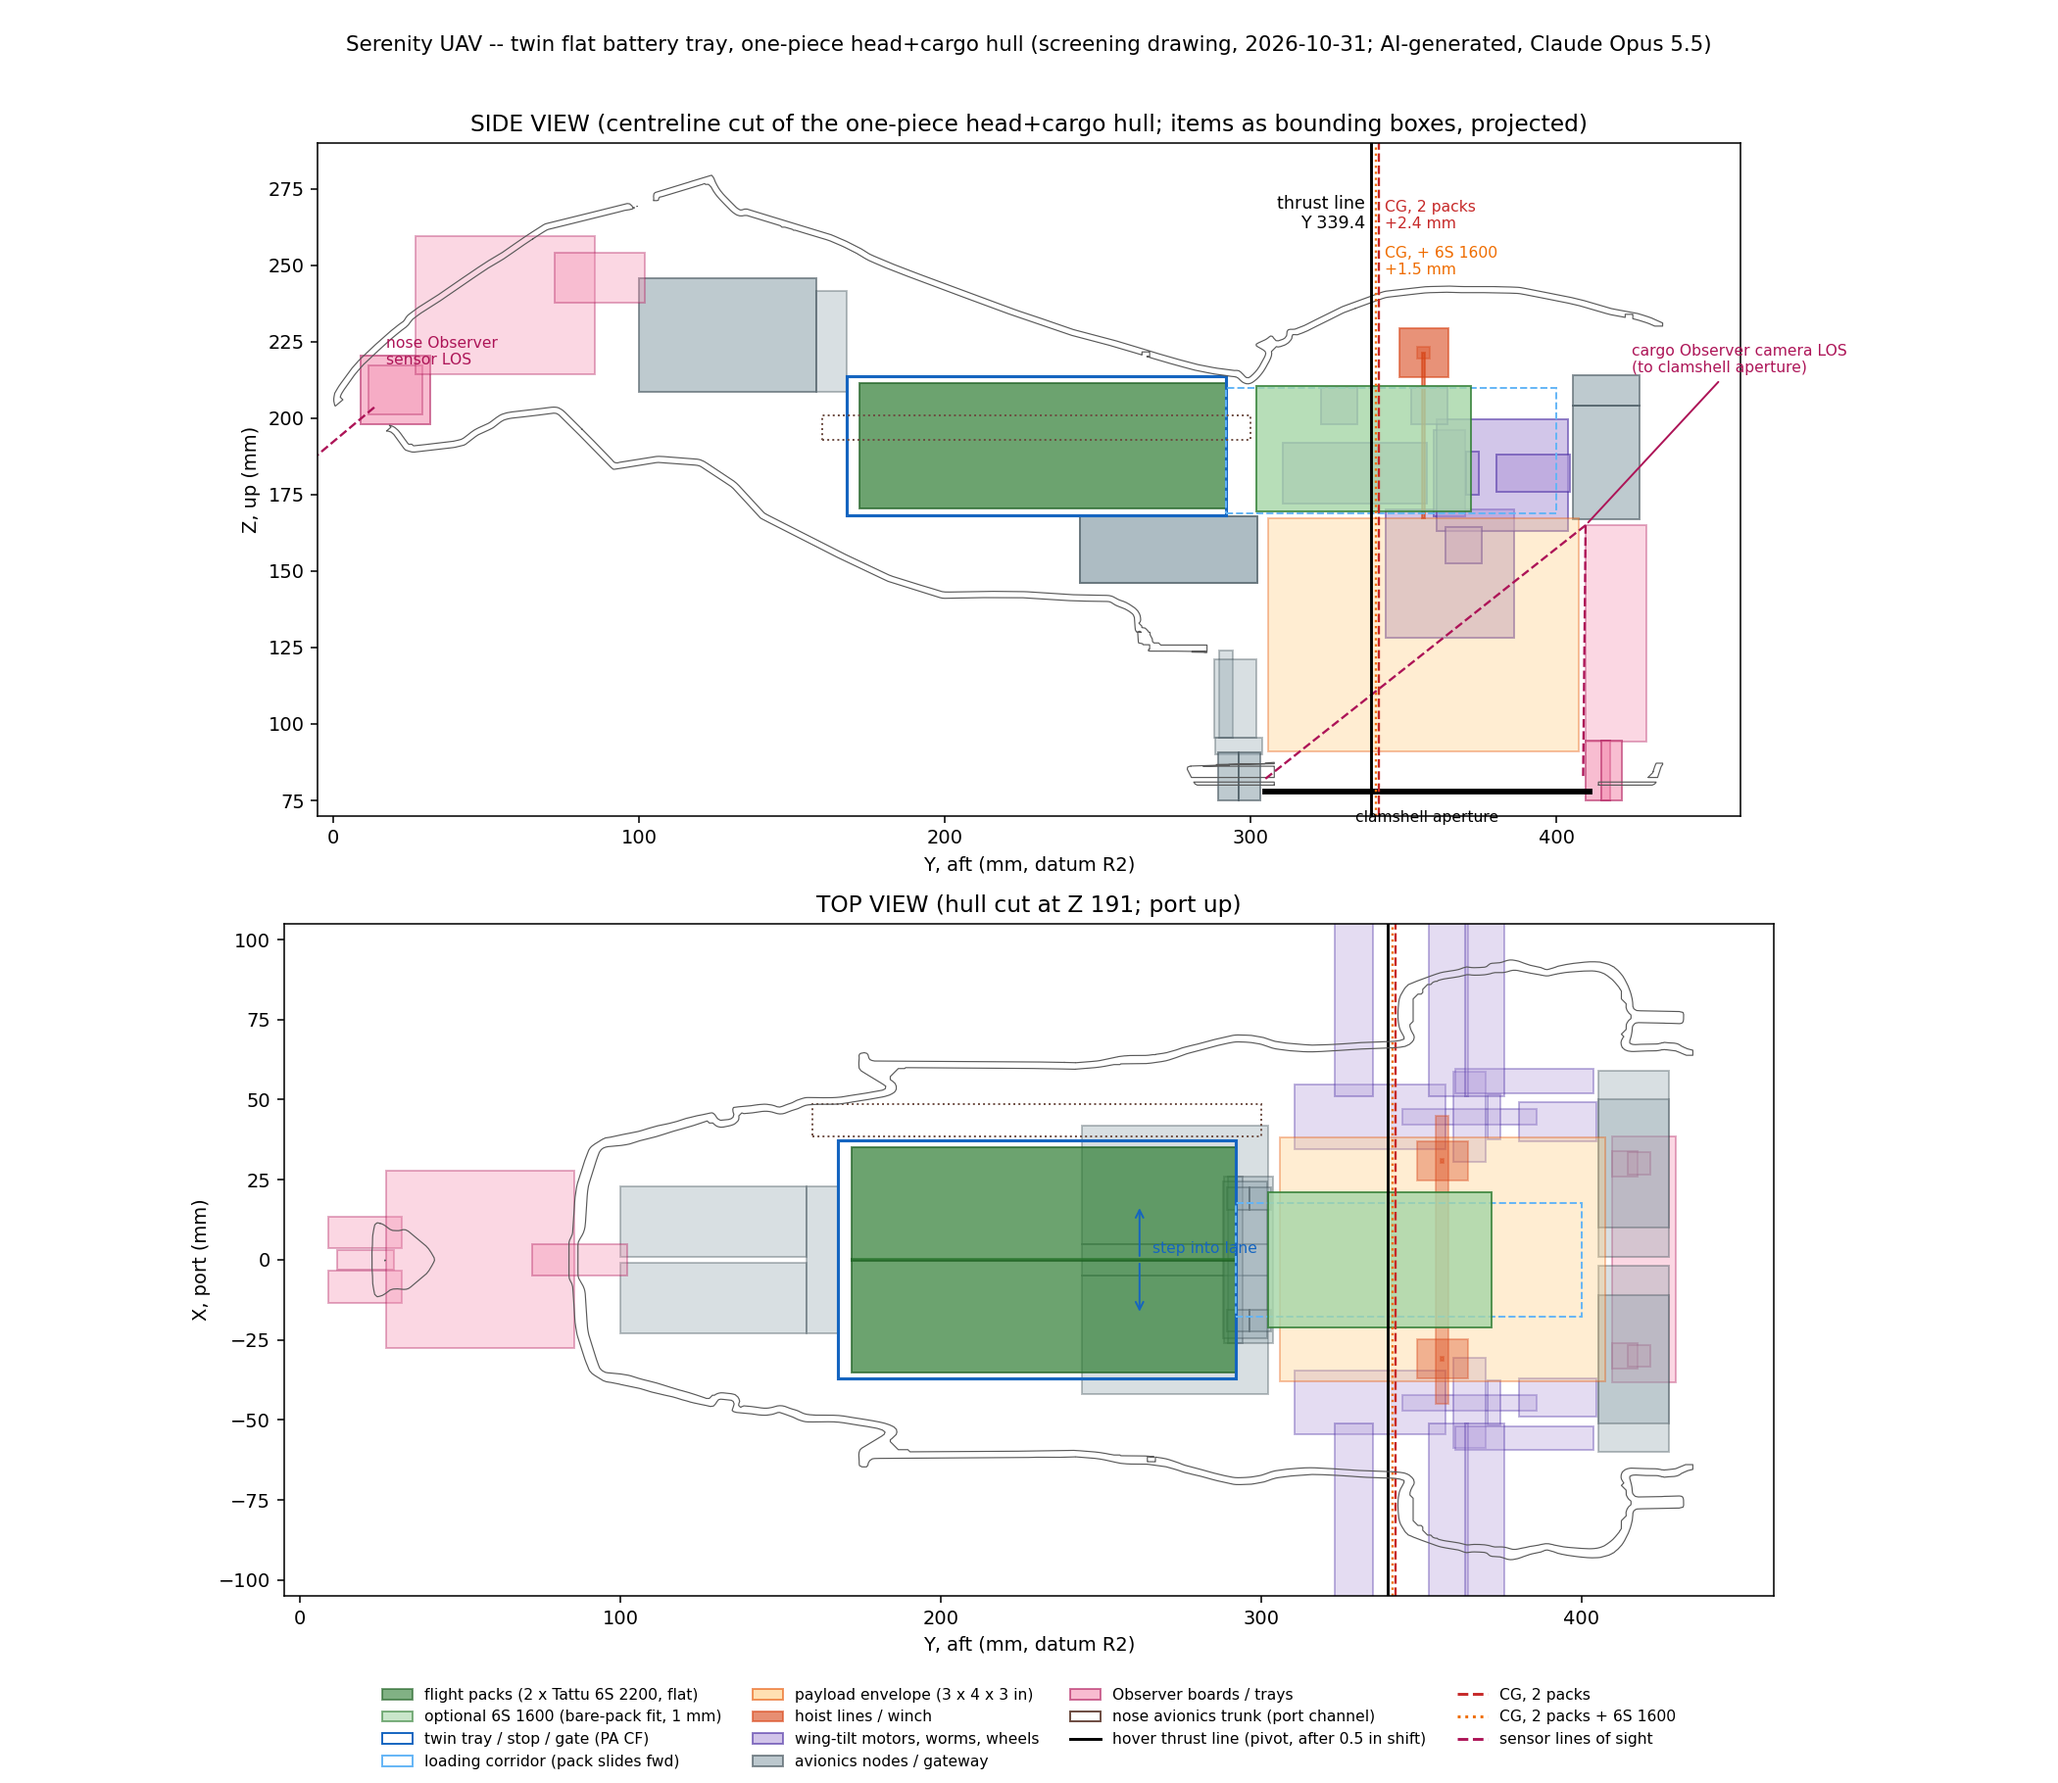
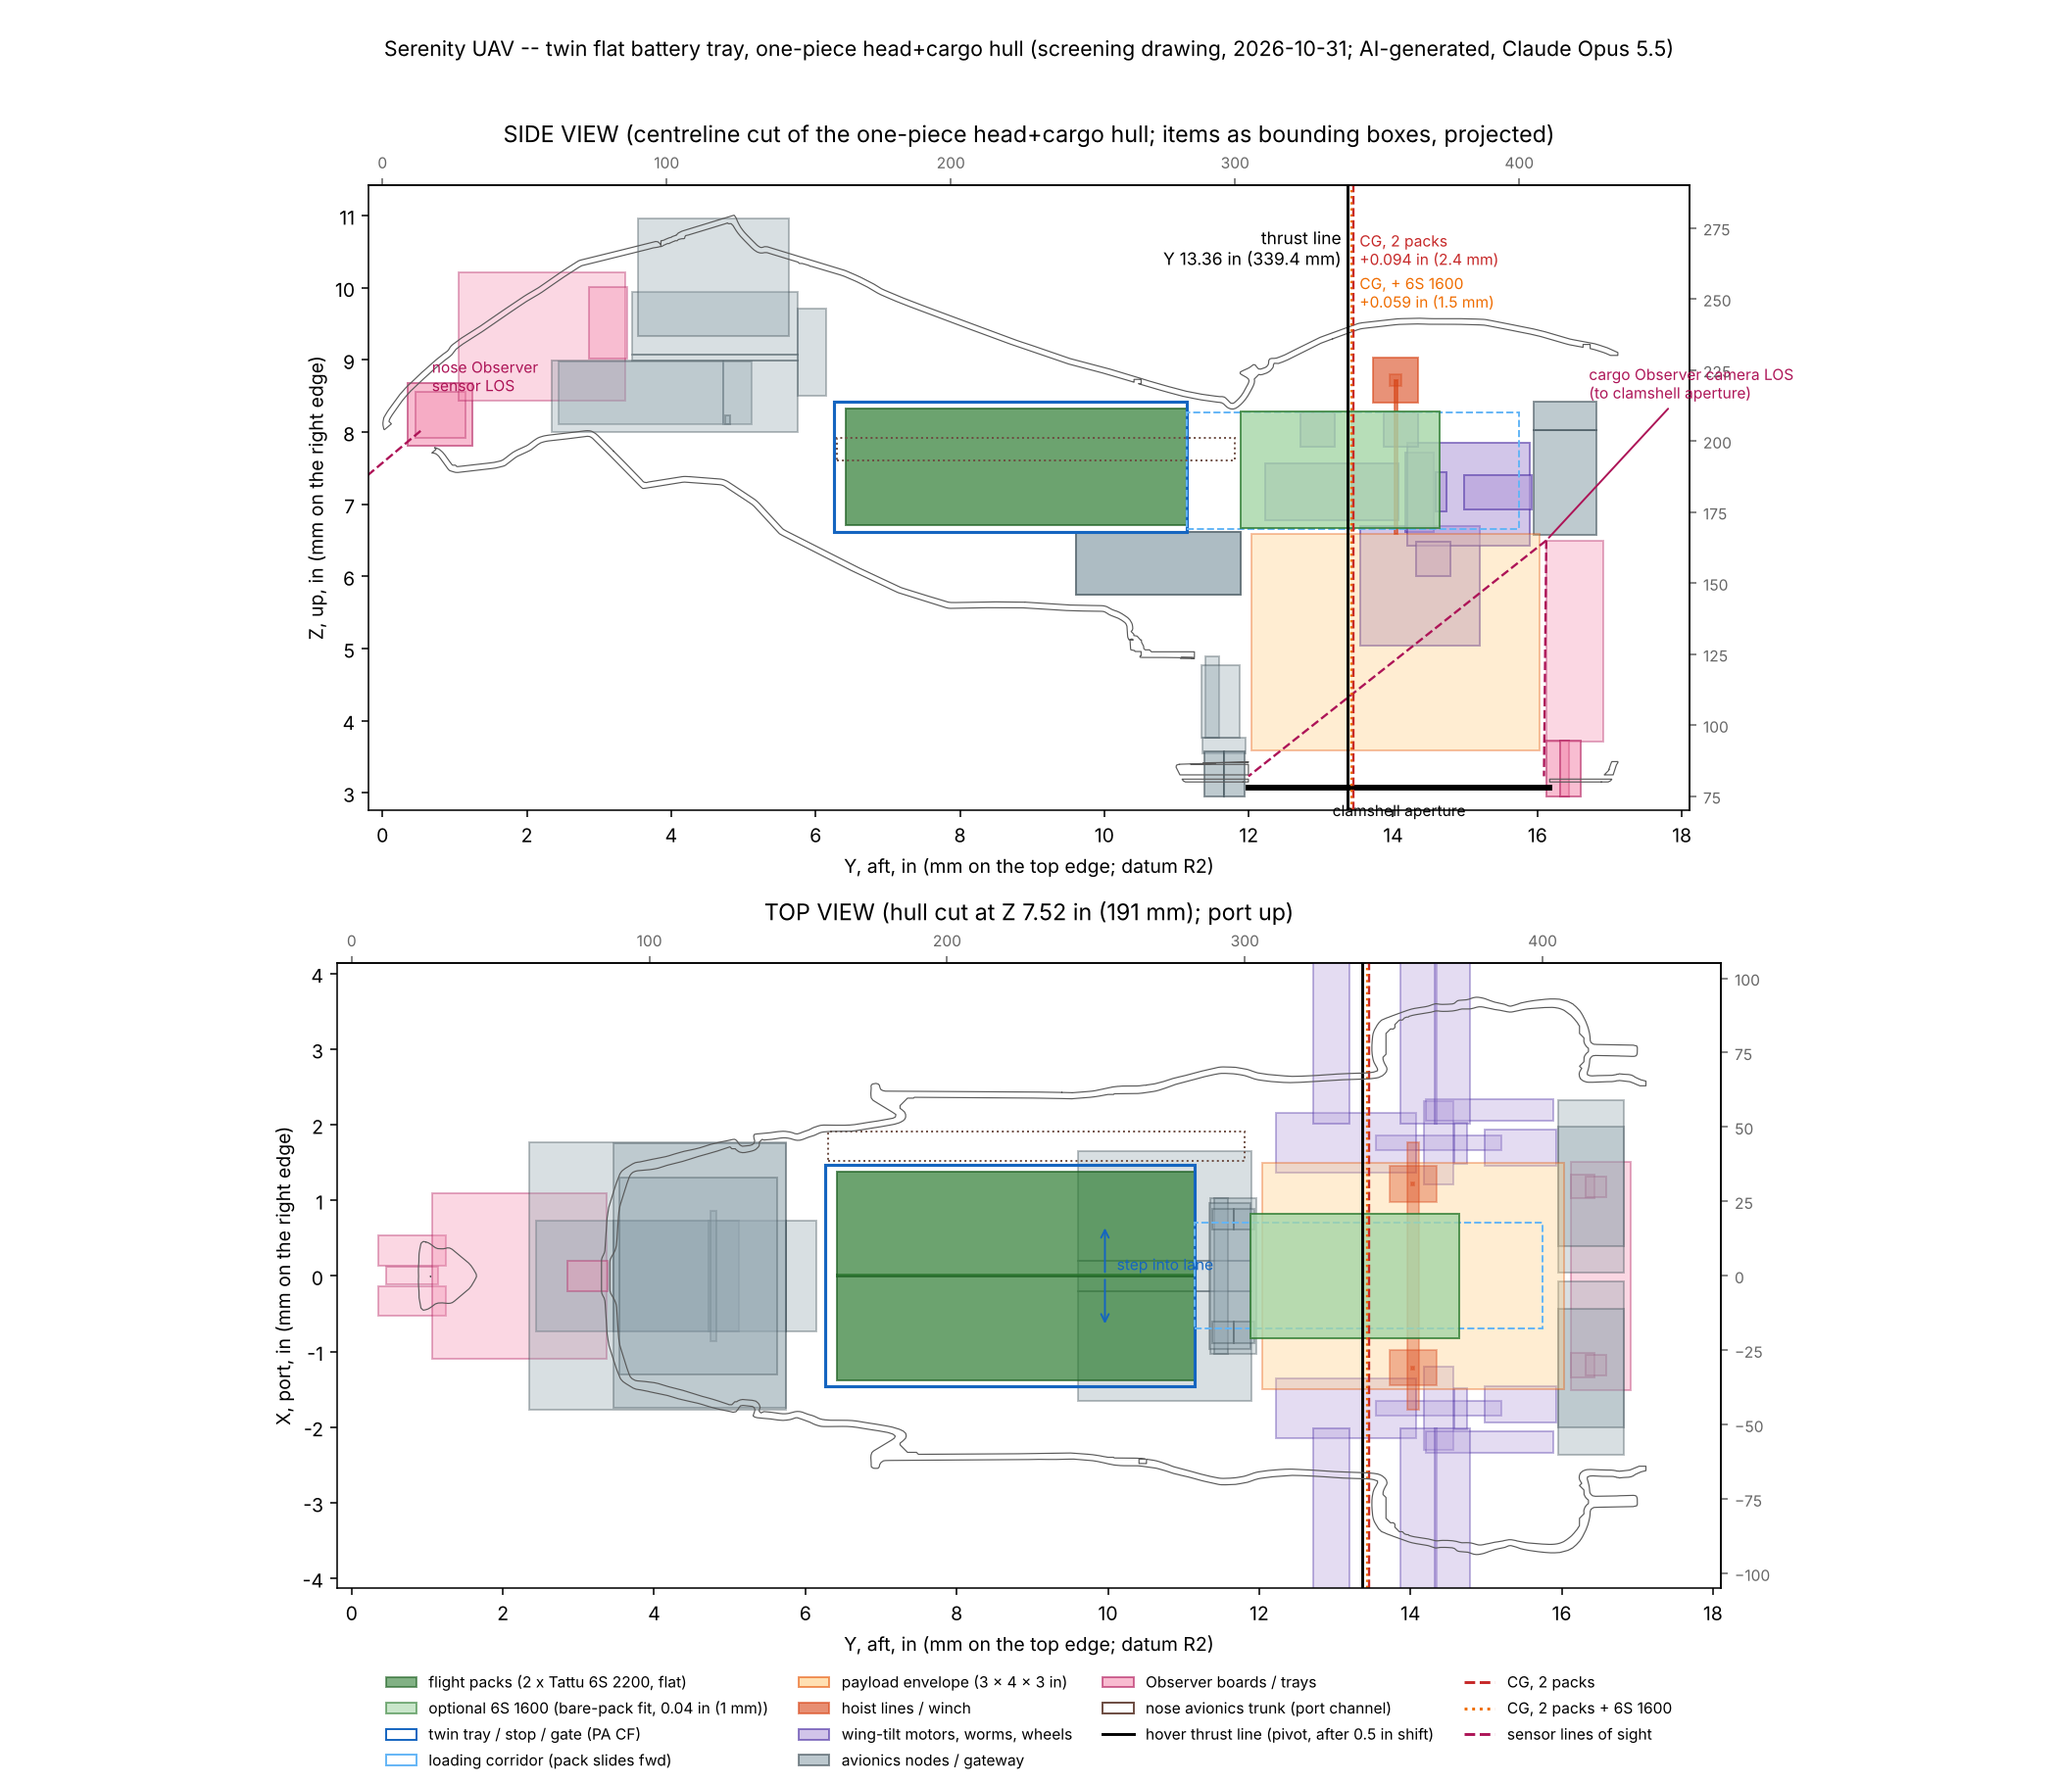
docs(figures): inches and psf first on the remaining metric drawings
Audit of docs/figures against AGENTS.md section 5 (imperial first):
- battery_bay_twin_tray.png: axes and CG labels were mm. plot_battery_bay.py
  now labels inches on the bottom/left with the mm scale on the top/right
  (geometry still read in mm from the fit tools); regenerated.
- nacelle64_bay_stud_after/_interaction.png: insert sizes in the subtitle
  were mm only. No generator exists for these 2026-11-08 figures, so the
  subtitle line was re-lettered in place (Inter, same size) as
  0.138/0.157/0.236 in with mm in parentheses; nothing else changed.
- nacelle64_od17_cfd_wall_shear and _tail_cfd_wall_shear.png: colour bar
  was Pa only. The CFD case data is not in this container, so the bar
  title and tick labels were re-lettered in place as psf (Pa)
  (1 Pa = 0.020885 psf). post.py now plots psf so the OD17-FAIR-CFD re-run
  renders imperial first.
All other figures were already inches first.

Claude-Session: https://claude.ai/code/session_0174Nei9LB7tYuXyTSNqF7z2

diff --git a/tools/plot_battery_bay.py b/tools/plot_battery_bay.py
@@ -32,6 +32,7 @@ import matplotlib.pyplot as plt  # noqa: E402
 import numpy as np  # noqa: E402
 import trimesh  # noqa: E402
 from matplotlib.patches import Rectangle  # noqa: E402
+from matplotlib.ticker import FuncFormatter, MultipleLocator  # noqa: E402
 
 HERE = os.path.dirname(os.path.abspath(__file__))
 sys.path.insert(0, HERE)
@@ -41,13 +42,14 @@ import twin_head_pack_fit as t  # noqa: E402
 c, h, clf = t.c, t.h, t.clf
 OUT = os.path.join(c.REPO, "docs", "figures", "battery_bay_twin_tray.png")
 
-# CG offsets from twin_head_pack_fit (after the 0.5 in pivot shift)
+MM_IN = 25.4
+# CG offsets from twin_head_pack_fit (after the 0.5 in pivot shift), mm
 CG_F, CG_A = 2.4, 1.5
 THIRD = dict(y0=302.0, y1=372.0, zc=190.0, w=42.0, h=41.0)  # bare-pack fit band
 
 STYLE = {  # category: (face colour, edge colour, label)
     "pack": ("#2e7d32", "#1b5e20", "flight packs (2 x Tattu 6S 2200, flat)"),
-    "third": ("#a5d6a7", "#2e7d32", "optional 6S 1600 (bare-pack fit, 1 mm)"),
+    "third": ("#a5d6a7", "#2e7d32", "optional 6S 1600 (bare-pack fit, 0.04 in (1 mm))"),
     "tray": ("none", "#1565c0", "twin tray / stop / gate (PA CF)"),
     "corr": ("none", "#64b5f6", "loading corridor (pack slides fwd)"),
     "payload": ("#ffcc80", "#e65100", "payload envelope (3 x 4 x 3 in)"),
@@ -104,6 +106,18 @@ def rect(ax, x0, x1, y0, y1, key, alpha=0.55, lw=1.0, ls="-"):
                            alpha=alpha if fc != "none" else 1.0, lw=lw, ls=ls))
 
 
+def inch_axes(ax, x_step_in, y_step_in):
+    """Geometry stays in mm (as read from the fit tools); the bottom/left scales read inches
+    (AGENTS.md section 5, imperial first) and the top/right edges carry the mm scale."""
+    inch = FuncFormatter(lambda v, _: f"{v / MM_IN:g}")
+    ax.xaxis.set_major_locator(MultipleLocator(x_step_in * MM_IN))
+    ax.yaxis.set_major_locator(MultipleLocator(y_step_in * MM_IN))
+    ax.xaxis.set_major_formatter(inch)
+    ax.yaxis.set_major_formatter(inch)
+    ax.secondary_xaxis("top").tick_params(labelsize=8, colors="0.4")
+    ax.secondary_yaxis("right").tick_params(labelsize=8, colors="0.4")
+
+
 def outline(ax, mesh, origin, normal, ix, iy):
     sec = mesh.section(plane_origin=origin, plane_normal=normal)
     if sec is None:
@@ -155,16 +169,20 @@ def main():
         ax.axvline(tl, color="k", lw=1.5)
         ax.axvline(tl + CG_F, color="#c62828", lw=1.2, ls="--")
         ax.axvline(tl + CG_A, color="#ef6c00", lw=1.2, ls=":")
-    ax1.text(tl - 2, 262, f"thrust line\nY {tl:.1f}", ha="right", fontsize=9)
-    ax1.text(tl + CG_F + 2, 262, f"CG, 2 packs\n+{CG_F} mm", color="#c62828", fontsize=8)
-    ax1.text(tl + CG_F + 2, 247, f"CG, + 6S 1600\n+{CG_A} mm", color="#ef6c00", fontsize=8)
+    ax1.text(tl - 2, 262, f"thrust line\nY {tl / MM_IN:.2f} in ({tl:.1f} mm)", ha="right",
+             fontsize=9)
+    ax1.text(tl + CG_F + 2, 262, f"CG, 2 packs\n+{CG_F / MM_IN:.3f} in ({CG_F} mm)",
+             color="#c62828", fontsize=8)
+    ax1.text(tl + CG_F + 2, 247, f"CG, + 6S 1600\n+{CG_A / MM_IN:.3f} in ({CG_A} mm)",
+             color="#ef6c00", fontsize=8)
     ax1.set_title("SIDE VIEW (centreline cut of the one-piece head+cargo hull; items "
                   "as bounding boxes, projected)")
-    ax1.set_xlabel("Y, aft (mm, datum R2)")
-    ax1.set_ylabel("Z, up (mm)")
+    ax1.set_xlabel("Y, aft, in (mm on the top edge; datum R2)")
+    ax1.set_ylabel("Z, up, in (mm on the right edge)")
     ax1.set_xlim(-5, 460)
     ax1.set_ylim(70, 290)
     ax1.set_aspect("equal")
+    inch_axes(ax1, 2, 1)
     # ---------------- top view (Y aft, X port up), cut at the tray centre Z ---
     outline(ax2, hull, [0, 0, t.TRAY_ZC], [0, 0, 1], 1, 0)
     for name, k, b in its:
@@ -181,12 +199,14 @@ def main():
     ax2.annotate("", xy=(t.TRAY_Y1 - 30, -t.LANE_X), xytext=(t.TRAY_Y1 - 30, 0),
                  arrowprops=dict(arrowstyle="->", color="#1565c0"))
     ax2.text(t.TRAY_Y1 - 26, 2, "step into lane", color="#1565c0", fontsize=8)
-    ax2.set_title(f"TOP VIEW (hull cut at Z {t.TRAY_ZC:.0f}; port up)")
-    ax2.set_xlabel("Y, aft (mm, datum R2)")
-    ax2.set_ylabel("X, port (mm)")
+    ax2.set_title(f"TOP VIEW (hull cut at Z {t.TRAY_ZC / MM_IN:.2f} in "
+                  f"({t.TRAY_ZC:.0f} mm); port up)")
+    ax2.set_xlabel("Y, aft, in (mm on the top edge; datum R2)")
+    ax2.set_ylabel("X, port, in (mm on the right edge)")
     ax2.set_xlim(-5, 460)
     ax2.set_ylim(-105, 105)
     ax2.set_aspect("equal")
+    inch_axes(ax2, 2, 1)
     handles = [Rectangle((0, 0), 1, 1, facecolor=v[0], edgecolor=v[1],
                          alpha=0.6 if v[0] != "none" else 1) for v in STYLE.values()]
     labels = [v[2] for v in STYLE.values()]

diff --git a/tools/od17_junction_cfd/post.py b/tools/od17_junction_cfd/post.py
@@ -102,11 +102,14 @@ p = pv.Plotter(off_screen=True, shape=(2, len(names)),
 for i, n in enumerate(names):
     b = out[n]['body'].copy()
     b.points = b.points * 1000 / 25.4
-    lim = float(np.percentile(np.abs(b.cell_data['tau_stream']), 95))
+    # plot in psf, imperial first (AGENTS.md section 5); 1 psf = 47.880 Pa, given in the title
+    b.cell_data['tau_stream_psf'] = b.cell_data['tau_stream'] * 0.0208854
+    lim = float(np.percentile(np.abs(b.cell_data['tau_stream_psf']), 95))
     for r_, (vn, d, up) in enumerate((('TOP', (0, -1, 0), (0, 0, -1)), ('BOTTOM', (0, 1, 0), (0, 0, -1)))):
         p.subplot(r_, i)
-        p.add_mesh(b, scalars='tau_stream', cmap='coolwarm', clim=(-lim, lim), show_edges=False,
-                   scalar_bar_args=dict(title='streamwise wall shear, Pa (blue = reversed flow)', n_labels=3, fmt='%.1f'))
+        p.add_mesh(b, scalars='tau_stream_psf', cmap='coolwarm', clim=(-lim, lim), show_edges=False,
+                   scalar_bar_args=dict(title='streamwise wall shear, psf (x 47.88 = Pa); blue = reversed flow',
+                                        n_labels=3, fmt='%.3f'))
         p.add_text(f"{n.upper()}  {vn} view: flow from the top of the page; nacelle flank at X 1.89 in",
                    font_size=11, position='upper_left')
         f = np.array([4.1, 0, 5.3])
